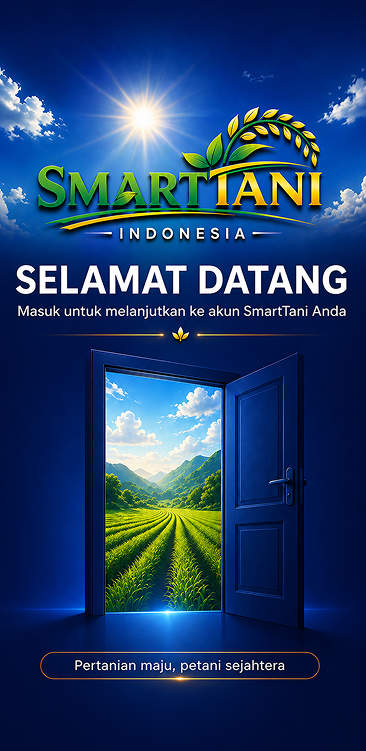
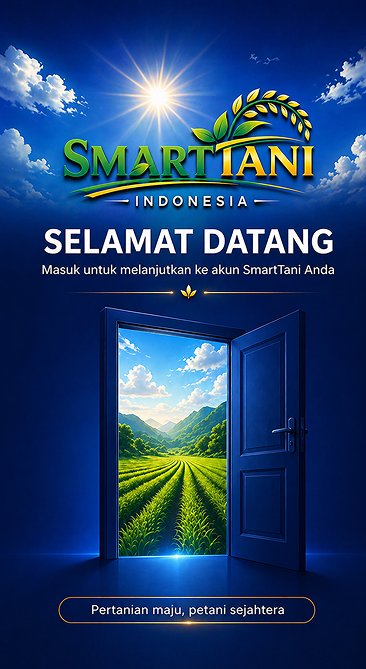
feat(responsive): add small tablet support to hero sections and update assets

diff --git a/components/sections/register/SignupHeroSection.tsx b/components/sections/register/SignupHeroSection.tsx
@@ -3,7 +3,7 @@ import { REGISTER_HERO } from "@/constants/register";
 
 export default function RegisterHeroSection() {
   return (
-    <section className="relative flex items-start md:items-center overflow-hidden min-h-[850px] md:min-h-[460px] lg:min-h-[420px]">
+    <section className="relative flex items-start md:items-center overflow-hidden min-h-[720px] md:min-h-[460px] lg:min-h-[420px]">
       {/* Background Image */}
       <div className="absolute inset-0 z-0">
         <picture className="block w-full h-full">
@@ -16,7 +16,11 @@ export default function RegisterHeroSection() {
             srcSet={REGISTER_HERO.bgImageTablet}
           />
           <source
-            media="(max-width: 767px)"
+            media="(min-width: 480px) and (max-width: 767px)"
+            srcSet={REGISTER_HERO.bgImageSmallTablet}
+          />
+          <source
+            media="(max-width: 479px)"
             srcSet={REGISTER_HERO.bgImageMobile}
           />
           <img

diff --git a/components/sections/login/HeroLoginSection.tsx b/components/sections/login/HeroLoginSection.tsx
@@ -5,7 +5,7 @@ import { LOGIN_HERO } from "@/constants/login";
 
 const HeroLoginSection = () => {
   return (
-    <section className="relative flex items-start md:items-center overflow-hidden min-h-[850px] md:min-h-[460px] lg:min-h-[420px]">
+    <section className="relative flex items-start md:items-center overflow-hidden min-h-[720px] md:min-h-[460px] lg:min-h-[420px]">
       {/* Background Image */}
       <div className="absolute inset-0 z-0">
         <picture className="block w-full h-full">
@@ -18,7 +18,11 @@ const HeroLoginSection = () => {
             srcSet={LOGIN_HERO.bgImageTablet}
           />
           <source
-            media="(max-width: 767px)"
+            media="(min-width: 480px) and (max-width: 767px)"
+            srcSet={LOGIN_HERO.bgImageSmallTablet}
+          />
+          <source
+            media="(max-width: 479px)"
             srcSet={LOGIN_HERO.bgImageMobile}
           />
           <img

diff --git a/components/sections/academy/AcademyHeroSection.tsx b/components/sections/academy/AcademyHeroSection.tsx
@@ -17,7 +17,7 @@ const AcademyHeroSection = () => {
   };
 
   return (
-    <section className="relative flex items-start md:items-center overflow-hidden min-h-[850px] md:min-h-[460px] lg:min-h-[420px]">
+    <section className="relative flex items-start md:items-center overflow-hidden min-h-[720px] md:min-h-[460px] lg:min-h-[420px]">
       {/* Background Image */}
       <div className="absolute inset-0 z-0">
         <picture className="block w-full h-full">
@@ -30,7 +30,11 @@ const AcademyHeroSection = () => {
             srcSet={ACADEMY_HERO.bgImageTablet}
           />
           <source
-            media="(max-width: 767px)"
+            media="(min-width: 480px) and (max-width: 767px)"
+            srcSet={ACADEMY_HERO.bgImageSmallTablet}
+          />
+          <source
+            media="(max-width: 479px)"
             srcSet={ACADEMY_HERO.bgImageMobile}
           />
           <img

diff --git a/constants/register.ts b/constants/register.ts
@@ -7,6 +7,7 @@ export const REGISTER_META = {
 export const REGISTER_HERO = {
   bgImageDesktop: "/images/register/desktop-signup.png",
   bgImageTablet: "/images/register/tablet-signup.png",
+  bgImageSmallTablet: "/images/register/sm-tablet-signup.png",
   bgImageMobile: "/images/register/mobile-signup.png",
   badge: "Smarttani",
   heading: "Bergabung Bersama Smarttani Mulai Perjalanan Sukses Anda",

diff --git a/constants/login.ts b/constants/login.ts
@@ -10,6 +10,7 @@ export const LOGIN_HERO = {
   subtext: "Bersama petani, membangun pertanian modern, berkelanjutan dan berdaya saing untuk masa depan yang lebih baik.",
   bgImageDesktop: "/images/register/desktop-login.png",
   bgImageTablet: "/images/register/tablet-login.png",
+  bgImageSmallTablet: "/images/register/sm-tablet-login.png",
   bgImageMobile: "/images/register/mobile-login.png",
 };
 

diff --git a/constants/academy.ts b/constants/academy.ts
@@ -13,6 +13,7 @@ export const ACADEMY_HERO = {
     "Tingkatkan pengetahuan dan keterampilan bertani bersama para ahli. Kursus praktis, mudah dipahami, dan bisa diakses kapan saja.",
   bgImageDesktop: "/images/academy/desktop.png",
   bgImageTablet: "/images/academy/tablet.png",
+  bgImageSmallTablet: "/images/academy/sm-tablet.png",
   bgImageMobile: "/images/academy/mobile.png",
   badges: [
     {
